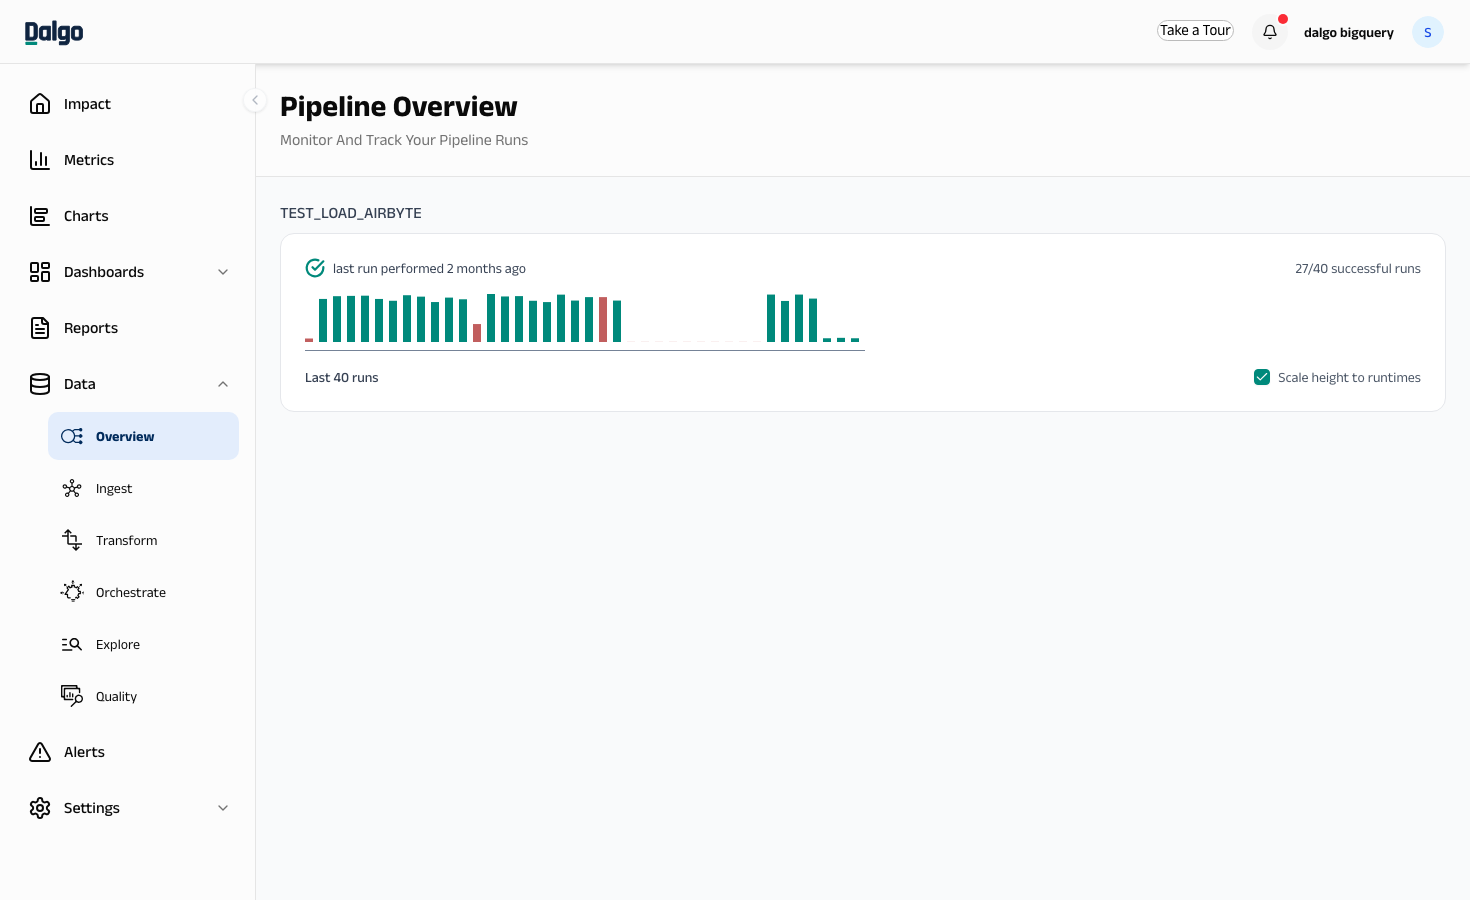
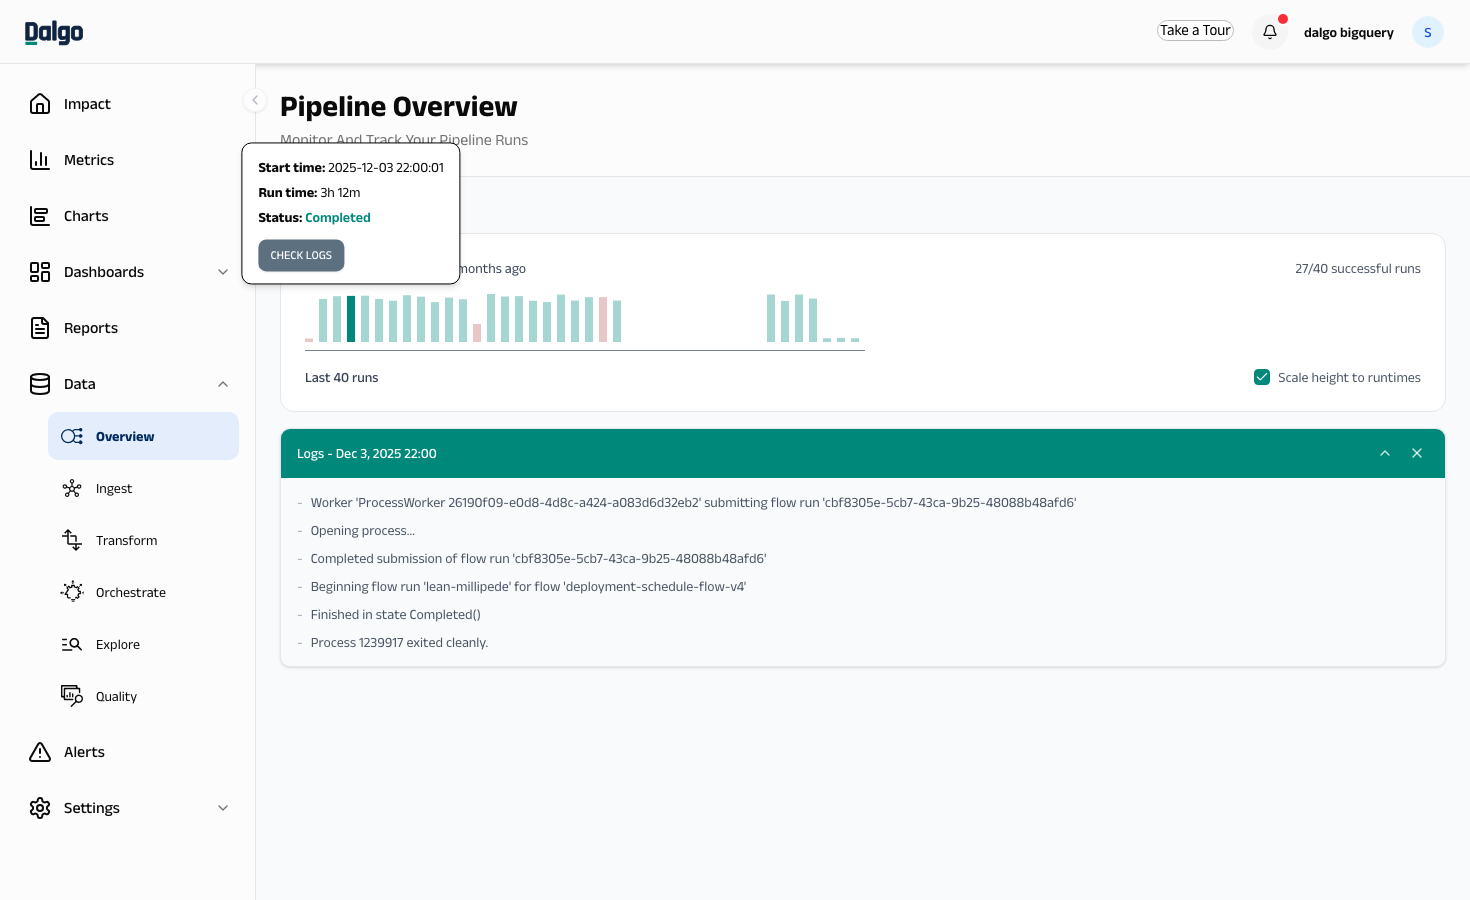
docs: add remaining screenshots from dalgo postgres account
- Reports: list, detail view, share menu, comment popover
- Pipeline Overview: expanded logs panel with run details
- Ingest: connections row close-up (cropped)

2 placeholders remain (Superset sign-in, warehouse test result)
— both require live service connections not available on staging.

Changed region(s): [[0.1837, 0.4667, 1.0, 0.7156], [0.1531, 0.1556, 0.4286, 0.4044], [0.5204, 0.3111, 0.5816, 0.4044]]

diff --git a/docs/docs/reports.md b/docs/docs/reports.md
@@ -68,7 +68,7 @@ You can leave comments on the executive summary or on individual charts to discu
 
 1. Select the **comment icon** on the executive summary or on any chart card.
 
-<!-- SCREENSHOT: Comment popover showing a comment thread on a chart -->
+![Comment popover](/img/reports/reports_comment.png)
 
 2. Type your comment in the text field.
 
@@ -88,7 +88,7 @@ You can share a report with anyone — including people outside your organisatio
 
 1. Select the **share icon** (↗) on the report row in the **Actions** column, or in the top-right corner of the report detail view.
 
-<!-- SCREENSHOT: Share menu showing "Share via link" and "Embed in email" options -->
+![Share menu](/img/reports/reports_share.png)
 
 2. Choose one of the sharing options:
 

diff --git a/docs/docs/managing-data/pipeline-overview.md b/docs/docs/managing-data/pipeline-overview.md
@@ -25,7 +25,7 @@ You will see a card for each pipeline. Each card shows:
 1. Select any bar in the chart to expand the run's logs directly below the pipeline card.
 2. You will see each task that ran, its duration, and whether it succeeded or failed.
 
-<!-- SCREENSHOT: Expanded logs panel below a pipeline card, showing task list with durations -->
+![Pipeline logs](/img/managedata/pipeline_overview_logs.png)
 
 ## Scale to runtime
 

diff --git a/docs/docs/ingest/connections.md b/docs/docs/ingest/connections.md
@@ -26,7 +26,7 @@ The **Connections** tab is shown by default. You will see a list of all connecti
 
 To test your connection, select the **Sync** button on the connection row. Sync logs will appear below.
 
-<!-- SCREENSHOT: Connection row showing sync button, history icon, and status indicator -->
+![Connection row](/img/ingest/connections_row.png)
 
 ## Managing a connection
 
